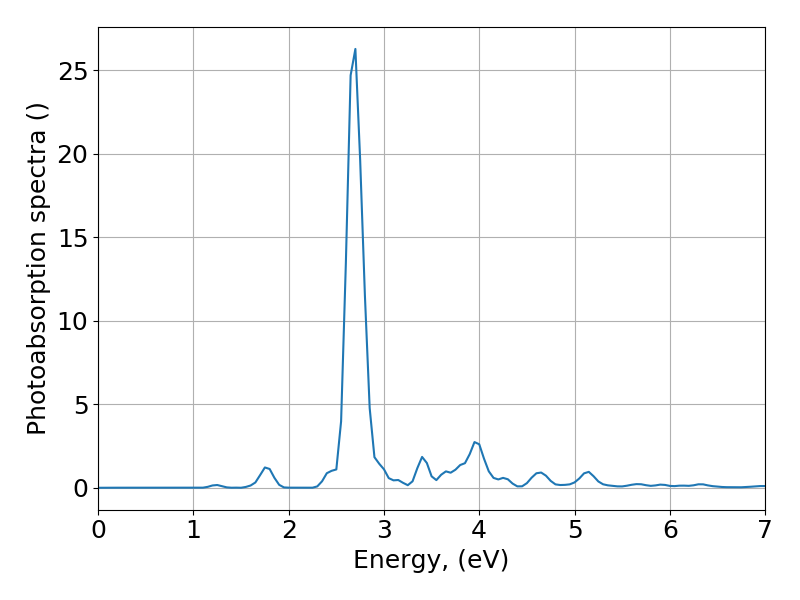
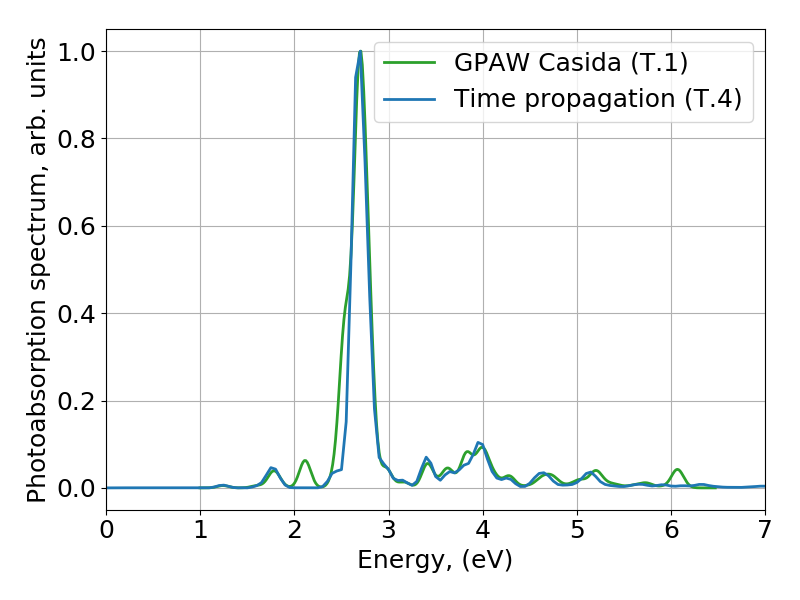
Run task 2, 3 and prepare for task 5

diff --git a/ComputationalMaterialsAndMolecularphysics/HW4/task3/task3.py b/ComputationalMaterialsAndMolecularphysics/HW4/task3/task3.py
@@ -13,7 +13,7 @@ plt.rc('ytick', labelsize=18)    # fontsize of the tick labels
 plt.rc('legend', fontsize=18)    # legend fontsize
 
 # Load dumped data from task 1
-d = np.load('dumpTask1.npz')
+d = np.load('../task2/dumpTask1.npz')
 K = d['K_pp'] # K-matrix
 omega = d['ediff_p'] # KS eigenvalue difference
 n = d['fdiff_p']  # Occupation difference
@@ -24,9 +24,7 @@ mu_p = [mux_p, muy_p, muz_p]
 
 # Construct the Omega matrix
 Omega = np.diag(v=omega**2, k=0) # First add diagonal
-for p in range(len(Omega)):
-    for q in range(len(Omega)):
-        Omega[p,q] += 2*np.sqrt(n[p]*omega[p]) * K[p,q] * np.sqrt(n[q]*omega[q])
+# Nothing more, since K=0
 
 # Obtain egivenalues and eigenvectors from the Omega matrix
 eigVal, F = np.linalg.eig(Omega)  # Eigenvalue, eigenvectors
@@ -47,32 +45,33 @@ for i, e in enumerate(eigVal):
 
 # Compare with the discrete spectrum from GPAW
 # Plot
+# fig, ax = plt.subplots(figsize=(8,6))
+# for i,e in enumerate(eps):
+#     if i==0:
+#         ax.plot([e,e], [0,f[i]], color='C0', linestyle='-', linewidth='2', label='Casida (manual)')
+#     else:
+#         ax.plot([e,e], [0,f[i]], color='C0', linestyle='-', linewidth='2')
+# ax.set_xlabel('Energy, (eV)')
+# ax.set_ylabel(r'Oscillator strength, arb. units')
+# ax.grid()
+# plt.tight_layout()
+# plt.savefig('task3_discrete_kohn_sham_spectra.png')
+
+
+# Finally, convolute my spectrum with a Gaussian and compare with KS eigenvalue differences
+print('**** Kohn-Sham eigenvalue differnces ****')
+print(omega)
+print('*****************************************')
+# TODO: What do these KS transitions mean?
+energy = np.linspace(0, 7, 1000)
+f_fold = h.fold(x_t=energy, x_i=eps, y_i=f, width=0.06)
 fig, ax = plt.subplots(figsize=(8,6))
-for i,e in enumerate(eps):
-    if i==0:
-        ax.plot([e,e], [0,f[i]], color='C0', linestyle='-', linewidth='2', label='Casida (manual)')
-    else:
-        ax.plot([e,e], [0,f[i]], color='C0', linestyle='-', linewidth='2')
+
+ax.plot(energy, f_fold / max(f_fold), color='C0', linestyle='-', linewidth='2', label='Manual Casida') 
 ax.set_xlabel('Energy, (eV)')
 ax.set_ylabel(r'Oscillator strength, arb. units')
 ax.grid()
 plt.tight_layout()
-ax.legend(loc='best')
-plt.savefig('task2_discrete_spectra.png')
-
-# Finally, convolute my spectrum with a Gaussian and compare with task 1
-task1 = np.loadtxt('../task1/spectrum_w0.06.dat', skiprows=4)
-
-energy = np.linspace(0, 7, 1000)
-f_fold = h.fold(x_t=energy, x_i=eps, y_i=f, width=0.06)
-fig, ax = plt.subplots(figsize=(8,6))
-ax.plot(task1[:,0], task1[:,1] / max(task1[:,1]), color='C2', linestyle='-', linewidth='2', label='GPAW Casida (T.1)') # Normalize both spectra since arbitrary units
-ax.plot(energy, f_fold / max(f_fold), color='C0', linestyle='-', linewidth='2', label='Manual Casida') 
-ax.set_xlabel('Energy, (eV)')
-ax.set_ylabel(r'Photoabsorption spectrum, arb. units')
-ax.grid()
-plt.tight_layout()
-ax.legend(loc='best')
-plt.savefig('task2_folded_spectra.png')
+plt.savefig('task3_kohn_sham_spectra.png')
 plt.show()
 

diff --git a/ComputationalMaterialsAndMolecularphysics/HW4/task3/helper.py b/ComputationalMaterialsAndMolecularphysics/HW4/task3/helper.py
@@ -1,0 +1,96 @@
+import numpy as np
+from ase.units import Hartree
+# from gpaw.lrtddft import LrTDDFT
+
+def discrete_spectrum(lr, fpath):
+	'''
+		Returns the discrete spectrum from a GPAW LrTDDFT calculator.
+
+		Inputs:
+		lr:		GPAW LrTDDFT calculator
+					If you saved the calculator to file (i.e. calcFile.dat)
+					you can load it via calc=LrTDDFT('calcFile.dat')
+		fpath:	Path and filename you wish to write the discrete spectrum to
+
+		The file will contain the energy for each excitation, the average
+			oscillator strength, and the (x,y,z) oscillator strengths.
+	'''
+	with open(fpath, 'w') as f:
+		f.write('# %4s %12s %12s %12s %12s %12s\n' %
+			('No', 'Energy (eV)', 'osc', 'osc x', 'osc y', 'osc z'))
+		for i, exc in enumerate(lr):
+			energy = exc.get_energy() * Hartree
+			osc_j = exc.get_oscillator_strength()
+			data = [i, energy] + list(osc_j)
+			f.write('%6d %12.5f %12.6e %12.6e %12.6e %12.6e\n' % tuple(data))
+
+
+def fold(x_t, x_i, y_i, width):
+    '''
+        Convolutes each peak in the discrete spectrum
+        with a Gaussian of chosen width.
+        
+        inputs:
+        x_t:    vector with energies (i.e. linspace/np.arange)
+        x_i:    stick spectrum energies
+        y_i:    stick spectrum intensities
+        width:  width of the Gaussian
+
+        outputs:
+        y_t:    convoluted spectrum, i.e. intensities
+    '''
+    def Gauss(x0):
+        norm = 1.0 / (width * np.sqrt(2 * np.pi))
+        return norm * np.exp(-0.5 * (x_t - x0)**2 / width**2)
+
+    y_t = np.zeros_like(x_t)
+    for x, y in zip(x_i, y_i):
+        y_t += y * Gauss(x)
+    return y_t
+
+
+def dump_data(lr, fpath):
+	'''
+		NOTE: This dumps everything in atomic units
+
+		Inputs:
+		lr:		GPAW LrTDDFT calculator
+					If you saved the calculator to file (i.e. calcFile.dat)
+					you can load it via calc=LrTDDFT('calcFile.dat')
+		fpath:	Path and filename you wish to dump to
+
+		Keywords for dumped quantities:
+		'i_p':		Kohn-Sham state that gets excited from
+		'a_p':		Kohn-Sham state that gets excited to
+		'ediff_p':	Kohn-Sham eigenvalue differences for each KS excitation
+		'fdiff_p':	Kohn_sham occupation differe for each KS excitation
+		'mux_p':	x-component of dipole matrix elements
+		'muy_p':	y-component of dipole matrix elements
+		'muz_p':	z-component of dipole matrix elements
+		'K_pp':		K-matrix
+	'''
+    # Kohn-Sham electron-hole pairs
+	kss = lr.kss
+	Np = len(kss)
+
+	# Read arrays
+	i_p = np.zeros(Np, dtype=int)
+	a_p = np.zeros(Np, dtype=int)
+	w_p = np.zeros(Np)
+	f_p = np.zeros(Np)
+	mu_vp = np.zeros((3, Np))
+	for p, ks in enumerate(kss):
+		i_p[p] = ks.i
+		a_p[p] = ks.j
+		w_p[p] = ks.energy
+		f_p[p] = ks.fij
+		mu_vp[:, p] = ks.mur
+
+	# Read K matrix
+	Omega_pp = lr.Om.full
+	sqfw_p = np.sqrt(f_p * w_p)
+	K_pp = 0.5 * (Omega_pp - np.diag(w_p**2)) / np.outer(sqfw_p, sqfw_p)
+
+	np.savez_compressed(fpath, i_p=i_p, a_p=a_p, ediff_p=w_p, fdiff_p=f_p,
+						mux_p=mu_vp[0], muy_p=mu_vp[1], muz_p=mu_vp[2],
+						K_pp=K_pp)

diff --git a/ComputationalMaterialsAndMolecularphysics/HW4/task5/task5.py b/ComputationalMaterialsAndMolecularphysics/HW4/task5/task5.py
@@ -1,0 +1,35 @@
+# Built-in packages
+import time
+
+# GPAW
+from gpaw import GPAW
+from gpaw.lrtddft import LrTDDFT
+from gpaw.lrtddft import photoabsorption_spectrum
+
+
+print(f'------------   Extracting shortened photoabsorption spectrum   ------------')
+
+start = time.time()
+
+# Import LrTDDFT results from Task 1    
+lr = LrTDDFT('../task1/TDDFT_Task1.dat')
+
+lr.diagonalize(energy_range=4) # Only include up to 4 eV
+
+# Generate spectrum and save it
+wd = 0.06
+photoabsorption_spectrum(
+    lr,
+    f'spectrum_w{wd}.dat',
+    width = wd
+)
+
+# Extract all information about all transitions
+print('** LrTDDFT.analyze() output **')
+lr.analyze()
+print('*******************************')
+
+
+end = time.time()
+print('-------- Photoabsorption spectrum extracted in: ' + f'{(end-start):.2f} s --------'.rjust(34))
+print('----------------------------------------------------------------------')

diff --git a/ComputationalMaterialsAndMolecularphysics/HW4/task4/plot_spectrum_task4.py b/ComputationalMaterialsAndMolecularphysics/HW4/task4/plot_spectrum_task4.py
@@ -1,4 +1,4 @@
-# Imports
+ # Imports
 import numpy as np
 import matplotlib.pyplot as plt
 
@@ -20,12 +20,16 @@ energies = spec_x[:,0]
 spec = np.sqrt(spec_x[:,1]**2 + spec_y[:,1]**2 + spec_z[:,1]**2)
 
 # Plot
+task1 = np.loadtxt('../task1/spectrum_w0.06.dat', skiprows=4)
+
 fig, ax = plt.subplots(figsize=(8,6))
-ax.plot(energies, spec, linestyle='-')
+ax.plot(task1[:,0], task1[:,1] / max(task1[:,1]), color='C2', linestyle='-', linewidth='2', label='GPAW Casida (T.1)') # Normalize both spectra since arbitrary units
+ax.plot(energies, spec / max(spec),  color='C0', linestyle='-', linewidth='2', label='Time propagation (T.4)')
 ax.set_xlabel('Energy, (eV)')
-ax.set_ylabel(r'Photoabsorption spectra ()')
+ax.set_ylabel(r'Photoabsorption spectrum, arb. units')
 ax.set_xlim(0,7)
 ax.grid()
+ax.legend(loc='best')
 plt.tight_layout()
 plt.savefig('task4_spectra.png')
 plt.show()

diff --git a/ComputationalMaterialsAndMolecularphysics/HW4/task1/plot_spectrum_task1.py b/ComputationalMaterialsAndMolecularphysics/HW4/task1/plot_spectrum_task1.py
@@ -19,7 +19,7 @@ spec_data = np.loadtxt('spectrum_w0.06.dat', skiprows=4)
 fig, ax = plt.subplots(figsize=(8,6))
 ax.plot(spec_data[:,0], spec_data[:,1], linestyle='-')
 ax.set_xlabel('Energy, (eV)')
-ax.set_ylabel(r'Photoabsorption spectra ()')
+ax.set_ylabel(r'Photoabsorption spectrum, arb. units')
 ax.set_xlim(0,7)
 ax.grid()
 plt.tight_layout()

diff --git a/ComputationalMaterialsAndMolecularphysics/HW4/task2/dump_task1.py b/ComputationalMaterialsAndMolecularphysics/HW4/task2/dump_task1.py
@@ -10,6 +10,9 @@ lr = LrTDDFT('../task1/TDDFT_Task1.dat')
 # Dump the results from the calculation to file
 h.dump_data(lr, fpath='dumpTask1.npz' )
 
+# Also generate the discrete spectrum from GPAW
+h.discrete_spectrum(lr, 'GPAW_discrete.dat')
+
 
 
 
